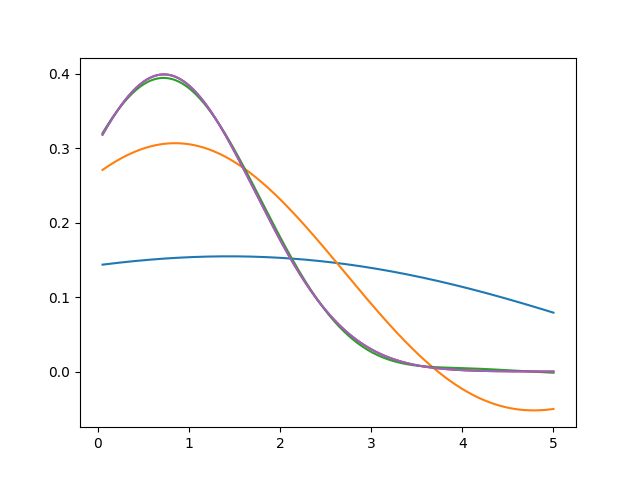
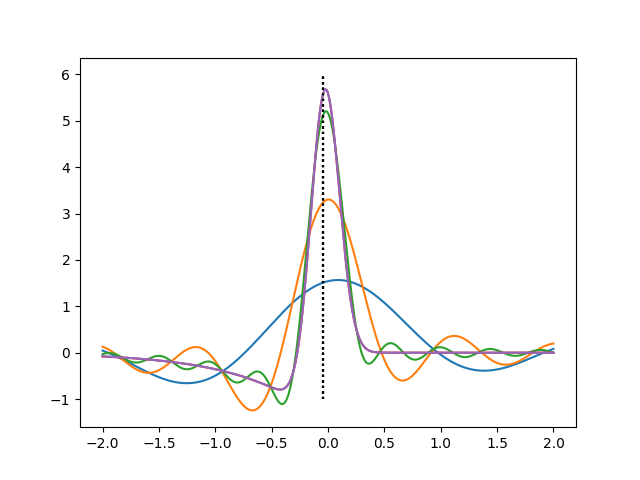
gbm cos method option pricing (LB PUT HAS BUGS)

diff --git a/option_pricing/classes.py b/option_pricing/classes.py
@@ -1,8 +1,14 @@
 import numpy as np
 import math
+import random
 from enum import Enum
 from scipy.stats import norm
+import sys
+from colorama import Fore, Style
+import mpmath
+np.seterr(all='raise')
 
+np.set_printoptions(linewidth=np.inf)
 # GENERAL CONSTANTS AND GENERAL FUNCTIONS
 i = complex(0.0, 1.0)
 
@@ -38,21 +44,21 @@ class GBM:
 
     def phi_adjlogmax(self, u, x, t, T, K):
         tau = T - t
-        alpha = (self.mu + 0.5*self.sigma**2) / self.sigma
+        alpha = (self.mu - 0.5*self.sigma**2) / self.sigma
 
         f1 = 2 * np.exp(i*u*np.log(x/K))
-        f2 = 1 - alpha / (i*self.sigma*u + 2*alpha)
+        f2 = 1 - (alpha / (i*self.sigma*u + 2*alpha))
         f3 = np.exp(-i * (self.sigma*u - 2*alpha*i) * tau * alpha)
-        f4 = phi_N(math.sqrt(tau) * (self.sigma * u - 2*i*alpha))
+        f4 = phi_N(math.sqrt(tau) * (self.sigma * u - 2*alpha*i))
 
         return f1 * f2 * f3 * f4
     
     def phi_adjlogmin(self, u, x, t, T, K):
         tau = T - t
-        alpha = (self.mu + (self.sigma**2)/2) / self.sigma
+        alpha = (self.mu - (self.sigma**2)/2) / self.sigma
 
         f1 = 2 * np.exp(i*u*np.log(x/K))
-        f2 = 1 - alpha / (i*self.sigma*u + 2*alpha)
+        f2 = 1 - (alpha / (i*self.sigma*u + 2*alpha))
         f3 = np.exp(i * (2*alpha*i - self.sigma*u) * tau * alpha)
         f4 = phi_N(math.sqrt(tau) * (2*i*alpha - self.sigma*u))
 
@@ -82,8 +88,40 @@ class Option:
         else:
             return (np.sin(k*np.pi*(d-self.a)/(self.b-self.a)) - np.sin(k*np.pi*(c-self.a)/(self.b-self.a))) * (self.b-self.a) / (k*np.pi)
         
+    def MonteCarlo(self, iterations, steps, t, st, prevex=None):
+        vs = np.zeros(iterations)
+
+        percentage = 0.0
+        print("{: >6.2f}".format(percentage) + '%', end='', flush=True)
+        for i in range(iterations):
+            newperc = round(100*i/iterations, 2)
+            if newperc != percentage:
+                percentage = newperc
+                sys.stdout.write('\b' * 7 + ' ' * 7 + '\b' * 7)
+                print(f'{Fore.MAGENTA + Style.BRIGHT}{"{: >6.2f}".format(newperc)}%{Style.RESET_ALL}', end='', flush=True)
+            
+            
+            gbm = self.samplepath(self.T - t, steps, st)
+            vs[i] = self.payoff(gbm, prevex)
+        sys.stdout.write('\b\b\b\b\b\b\b')
+        # print(vs)
+        return np.exp(-self.mu*(self.T-t)) * np.average(vs)
+
+    def samplepath(self, tau, steps, st):
+        srw = (1 / np.sqrt(steps)) * np.cumsum([0] + [random.choice([-1, 1]) for _ in range(int(steps * tau) - 1)])
+        ts  = np.arange(int(steps * tau)) / steps
+
+        return st * np.exp((self.mu - np.power(self.sigma, 2)/2) * ts + self.sigma * srw)
+        
 # CHILD OPTION CLASS DESCRIBING COS METHOD PARAMETERS FOR LOOKBACK OPTIONS
 class Lookback(Option):
+    def payoff(self, path, prevex):
+        mx = np.max(np.append(path, prevex))
+        mn = np.min(np.append(path, prevex))
+
+        if self.optvar == CALL: return np.maximum(mx - self.strike, 0) 
+        if self.optvar == PUT:  return np.maximum(self.strike - mn, 0) 
+
     def H(self, k, prevex):
         adjprev = np.log(prevex/self.strike)
 
@@ -91,33 +129,28 @@ class Lookback(Option):
         tp1 = tp2 = tp3 = 0
         
         if prevex > self.strike:
-            tc1 = self.psi(k, 0, adjprev) * 2*(prevex-self.strike)/(self.b-self.a)
-            tc2 = (self.chi(k, adjprev, self.b) - self.psi(k, adjprev, self.b)) * 2*self.strike/(self.b - self.a)
-            tp3 = (self.psi(k, self.a, 0) - self.chi(k, self.a, 0))* 2*self.strike/(self.b - self.a)
+            tc1 = self.psi(k, self.a, adjprev) * 2*(prevex-self.strike)/(self.b-self.a)
+            tc2 = (self.chi(k, adjprev, self.b) - self.psi(k, adjprev, self.b)) * 2*self.strike/(self.b-self.a)
+            tp3 = (self.psi(k, self.a, 0) - self.chi(k, self.a, 0)) * 2*self.strike/(self.b-self.a)
         else:
-            tc3 = (self.chi(k, 0, self.b) - self.psi(k, 0, self.b))* 2*self.strike/(self.b - self.a)
-            tp1 = self.psi(k, adjprev, 0) * 2*(self.strike-prevex)/(self.b-self.a)
-            tp2 = (self.psi(k, self.a, adjprev) - self.chi(k, self.a, adjprev)) * 2*self.strike/(self.b - self.a)
+            tc3 = (self.chi(k, 0, self.b) - self.psi(k, 0, self.b)) * 2*self.strike/(self.b-self.a)
+            tp1 = self.psi(k, adjprev, self.b) * 2*(self.strike-prevex)/(self.b-self.a)
+            tp2 = (self.psi(k, self.a, adjprev) - self.chi(k, self.a, adjprev)) * 2*self.strike/(self.b-self.a)
 
         if self.optvar is CALL: return tc1 + tc2 + tc3
         if self.optvar is PUT:  return tp1 + tp2 + tp3
-
-        
+       
     def phi_adjlog_from(self, u, x, t):
         if self.optvar is CALL: return self.gbm.phi_adjlogmax(u, x, t, self.T, self.strike)
         if self.optvar is PUT:  return self.gbm.phi_adjlogmin(u, x, t, self.T, self.strike)
-
-    def d(self, sub, x, t):
-        tau = self.T - t
-        return (np.log(x/sub) + self.mu*tau + self.sigma**2*tau/2) / (self.sigma*math.sqrt(tau))
     
     def analytic(self, x, t, prevex):
         tau = self.T - t
-
-        tc1 = lambda input : x * norm.cdf(self.d(input, x, t) - np.exp(-self.mu*tau) * input * norm.cdf(self.d(input, x, t) - self.sigma*math.sqrt(tau)))
+       
+        tc1 = lambda input : x * norm.cdf(self.d(input, x, t)) - np.exp(-self.mu*tau) * input * norm.cdf(self.d(input, x, t) - self.sigma*math.sqrt(tau))
         tc2 = lambda input : np.exp(-self.mu*tau)*(self.sigma**2/(2*self.mu)) * x * (-(x/input)**(-(2*self.mu)/(self.sigma**2)) * norm.cdf(self.d(input, x, t) - 2*self.mu*math.sqrt(tau)/self.sigma) + np.exp(self.mu*tau)*norm.cdf(self.d(input, x, t)))
 
-        tp1 = lambda input : -x * norm.cdf(-self.d(input, x, t) + np.exp(-self.mu*tau) * input * norm.cdf(self.sigma*math.sqrt(tau) - self.d(input, x, t)))
+        tp1 = lambda input : -x * norm.cdf(-self.d(input, x, t)) + np.exp(-self.mu*tau) * input * norm.cdf(self.sigma*math.sqrt(tau) - self.d(input, x, t))
         tp2 = lambda input : np.exp(-self.mu*tau)*(self.sigma**2/(2*self.mu)) * x * ((x/input)**(-(2*self.mu)/(self.sigma**2)) * norm.cdf(2*self.mu*math.sqrt(tau)/self.sigma - self.d(input, x, t)) - np.exp(self.mu*tau)*norm.cdf(-self.d(input, x, t)))
 
 
@@ -125,11 +158,20 @@ class Lookback(Option):
         if self.optvar == CALL and prevex >= self.strike: return tc1(prevex) + tc2(prevex) + np.exp(-self.mu*tau)*(prevex-self.strike)
 
         if self.optvar == PUT  and prevex >= self.strike: return tp1(self.strike) + tp2(self.strike)
-        if self.optvar == PUT  and prevex <  self.strike: return tc1(prevex) + tc2(prevex) + np.exp(-self.mu*tau)*(self.strike-prevex)
+        if self.optvar == PUT  and prevex <  self.strike: return tp1(prevex) + tp2(prevex) + np.exp(-self.mu*tau)*(self.strike-prevex)
+    
+    def d(self, sub, x, t):
+        tau = self.T - t
+        return (np.log(x/sub) + self.mu*tau + 0.5*self.sigma**2*tau) / (self.sigma*math.sqrt(tau))
 
 
 # CHILD OPTION CLASS DESCRIBING COS METHOD PARAMETERS FOR RUROPEAN OPTIONS
 class European(Option):
+    def payoff(self, path, prevex):
+        s = path[-1]
+        if self.optvar == CALL: return np.maximum(s - self.strike, 0) 
+        if self.optvar == PUT:  return np.maximum(self.strike - s, 0) 
+
     def H(self, k):
         if self.optvar is CALL: return (self.chi(k, 0, self.b) - self.psi(k, 0, self.b)) * (2*self.strike)/(self.b-self.a)
         if self.optvar is PUT:  return (self.psi(k, self.a, 0) - self.chi(k, self.a, 0)) * (2*self.strike)/(self.b-self.a)

diff --git a/option_pricing/main.py b/option_pricing/main.py
@@ -1,6 +1,39 @@
 import numpy as np
 import matplotlib.pyplot as plt
 from classes import *
+from colorama import Fore, Style
+
+def MonteCarloDemo():
+    print('\t|\t|          T=1/4\t|          T=1/2\t|          T=1\t\t|          T=2\t\t|')
+    print(f'\t|   K\t|  ANA\t|   MC\t|  {Fore.RED}ERR{Style.RESET_ALL}\t|  ANA\t|   MC\t|  {Fore.RED}ERR{Style.RESET_ALL}\t|  ANA\t|   MC\t|  {Fore.RED}ERR{Style.RESET_ALL}\t|  ANA\t|   MC\t|  {Fore.RED}ERR{Style.RESET_ALL}\t|')
+    for strike in [9, 10, 11]:
+        for var in [CALL, PUT]:
+            print(f'{var.value.lower()}\t| {strike}\t', end='', flush=True)
+            for T in [1/4, 1/2, 1, 2]:
+                gbm = GBM(0.1, 0.4)
+                lower = -10*np.sqrt(2*T)
+                upper =  10*np.sqrt(2*T)
+
+                t = 0.2
+                St = 9
+                if var == CALL : prevex = 10
+                if var == PUT  : prevex = 8
+
+                lb = Lookback(gbmprocess=gbm,
+                            exercisetime=T, 
+                            strikeprice=strike,
+                            optionvariant=var,
+                            lowerintegration=lower, 
+                            upperintegration=upper)
+                analytic   = round(lb.analytic(St, t, prevex), 2)
+                montecarlo = round(lb.MonteCarlo(10000, 1000, t, St, prevex), 2)
+                error      = round(abs(analytic - montecarlo), 2)
+                out = ''
+                out += f'| {"{:.2f}".format(analytic)} \t'
+                out += f'| {"{:.2f}".format(montecarlo)}\t'
+                out += f'| {Fore.RED}{str(error)}{Style.RESET_ALL}\t'
+                print(out, end='', flush=True)
+            print('|', flush=True)
 
 def COS_Error(option, value, time, N, previousextreme=None):
     estimate = COS_Estimate(option, value, time, N, previousextreme)
@@ -18,7 +51,7 @@ def COS_Estimate(option, value, time, N, previousextreme=None):
     us = ks * np.pi / (option.b - option.a)  # defining an array of the factor k*pi/(b-a)
 
     # defining the array of F_k values
-    Fks = np.real(option.phi_adjlog_from(us, value, time) * np.exp(-i * us * option.a))
+    Fks = np.array([np.real(option.phi_adjlog_from(u, value, time) * np.exp(-i * u * option.a)) for u in us])
     Fks[0] *= 0.5
 
     # defining the array of H_k values according to the option specific function
@@ -37,7 +70,7 @@ def COS_Density(option, value, time, N, y):
     us = ks * np.pi / (option.b - option.a)  # defining an array of the factor k*pi/(b-a)
 
     # defining the array of F_k values
-    Fks = (2.0 / (option.b - option.a)) * np.real(option.phi_adjlog_from(us, value, time) * np.exp(-i * us * option.a))
+    Fks = np.array([(2.0 / (option.b - option.a)) * np.real(option.phi_adjlog_from(u, value, time) * np.exp(-i * u * option.a)) for u in us])
     Fks[0] *= 0.5
     
     # defining array of cos(u*(y-a))
@@ -48,13 +81,14 @@ def COS_Density(option, value, time, N, y):
 
     return f_X
 
-def COS_Plot(option, value, time):
-    y = np.linspace(0.05, 5.0, 1000)
+def COS_Plot(option, value, time, ns):
+    y = np.linspace(-2, 2.0, 1000)
     
     # plotting the resulting density function for multiple values of N
-    for n in [2**k for k in range(2, 7)]:
+    for n in ns:
         f_X = COS_Density(option, value, time, n, y)
         plt.plot(y, f_X)
+        plt.vlines(np.log(value/option.strike), -1, 6, colors='k', linestyles='dotted')
 
     plt.savefig('./option_pricing/fig.png')
 
@@ -70,20 +104,23 @@ def EU(t, St, K, variant, T, mu, sigma):
                   lowerintegration=lower, 
                   upperintegration=upper)
     
-    analytic = eu.analytic(St, t)
+    analytic   = eu.analytic(St, t)
+    montecarlo = eu.MonteCarlo(10000, 1000, t, St)
     print(f'analytic:    {analytic}')
+    print(f'monte carlo: {montecarlo}\n')
 
-    for n in [16, 32, 64, 128, 256]:
+    ns = [16, 32, 64, 128, 256]
+    for n in ns:
         est = COS_Estimate(eu, St, t, n)
         print(f'for N={n}, the estimate is {est}')
     
-    # COS_Plot(eu, 100, 0)
+    COS_Plot(eu, St, t, ns)
 
 def LB(t, St, K, prevex, variant, T, mu, sigma):
 
     gbm = GBM(mu, sigma)
-    lower = -10*np.sqrt(2*T)
-    upper =  10*np.sqrt(2*T)
+    lower = -10*np.sqrt(T)
+    upper =  10*np.sqrt(T)
 
     lb = Lookback(gbmprocess=gbm,
                   exercisetime=T, 
@@ -93,14 +130,16 @@ def LB(t, St, K, prevex, variant, T, mu, sigma):
                   upperintegration=upper)
     
     analytic = lb.analytic(St, t, prevex)
+    # montecarlo = lb.MonteCarlo(10000, int(200 / T), t, St, prevex)
     print(f'analytic:    {analytic}')
-
-    for n in [16, 32, 64, 128, 256, 512, 1024]:
+    # print(f'monte carlo: {montecarlo}\n')
+    ns = [16, 32, 64, 128, 256]
+    for n in ns:
         est = COS_Estimate(lb, St, t, n, prevex)
         print(f'for N={n}, the estimate is {est}')
     
-    # COS_Plot(lb, 100, 0)
+    COS_Plot(lb, St, t, ns)
 
-# EU(t=0.1, St=100, K=120, variant=CALL, T=0.3, mu=0.05, sigma=0.2)
-
-LB(t=0.1, St=100, K=120, prevex=130, variant=CALL, T=0.3, mu=0.05, sigma=0.2)
+# EU(t=0.1, St=100, K=80, variant=CALL, T=1, mu=0.1, sigma=1.4)
+# LB(t=0.1, St=100, prevex=110, K=95, variant=CALL, T=1/2, mu=0.05, sigma=0.2)
+LB(t=0.1, St=91, prevex=90, K=95, variant=PUT, T=1/2, mu=0.05, sigma=0.2)
